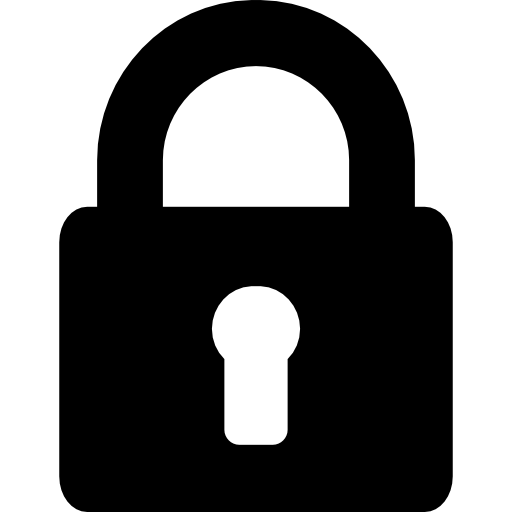
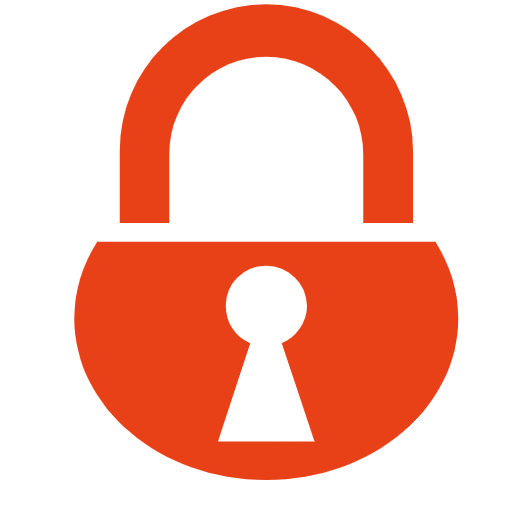
more soulreading advancement

diff --git a/src/css/main.css b/src/css/main.css
@@ -4691,6 +4691,35 @@ hr.leftSided {
     justify-content: space-between;
 }
 
+.slmrkStatus {
+    display: flex;
+    flex-direction: row;
+    line-height: 1.1;
+}
+.slmrkStatus.locked {
+    color: var(--base-red);
+}
+.slmrkStatus.unlocked {
+    color: var(--base-green);
+}
+.slmrkStatusIcon {
+    width: 12px;
+    height: 12px;
+    background-size: 100%;
+    background-repeat: no-repeat;
+    margin-right: 0.2rem;
+}
+.locked > .slmrkStatusIcon {
+    background: url('img/locked_icon.png');
+    background-size: 100%;
+    background-repeat: no-repeat;
+}
+.unlocked > .slmrkStatusIcon {
+    background: url('img/unlocked_icon.png');
+    background-size: 100%;
+    background-repeat: no-repeat;
+}
+
 .swReadSigilSlot {
     width: 100px;
     height: 100px;

diff --git a/src/scripts/graphics.js b/src/scripts/graphics.js
@@ -2116,7 +2116,7 @@ function getSoulmarkProgressGauge(sm) {
 
     str += '<div class="gaugeProgress"><div class="statGauge soulmark" style="width: ' + Math.round((sm.studied*100)/sm.researchTotal) + '%"><span class="gaugeIndicator">' + sm.studied + '/' + sm.researchTotal + '</span></div></div>';
     str += '<div class="alchToxicity">';
-    str += '<div class="slmrkStatus locked"><div class="slmrkStatusIcon"></div>Locked</div>';
+    str += '<div class="slmrkStatus ' + (sm.unlocked ? 'un' : '') + 'locked"><div class="slmrkStatusIcon"></div>' + (sm.unlocked ? 'Unl' : 'L') + 'ocked</div>';
     str += '<div id="slmrkNum-' + sm.name + '" class="slmrkNum"></div>';
     str += '</div>';
 
